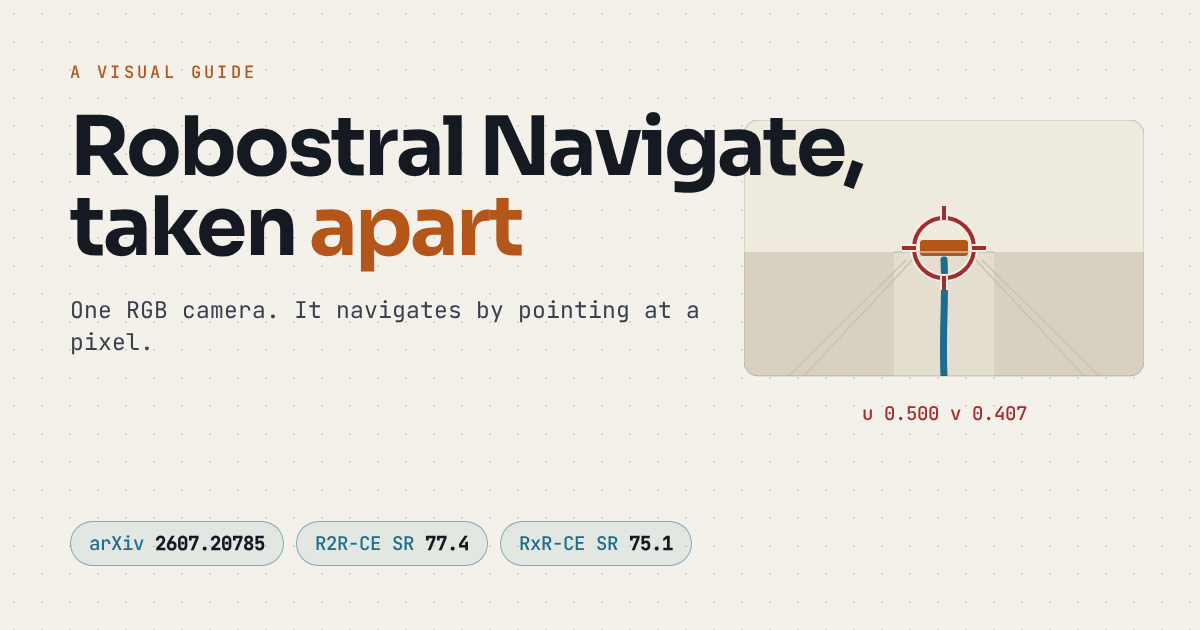
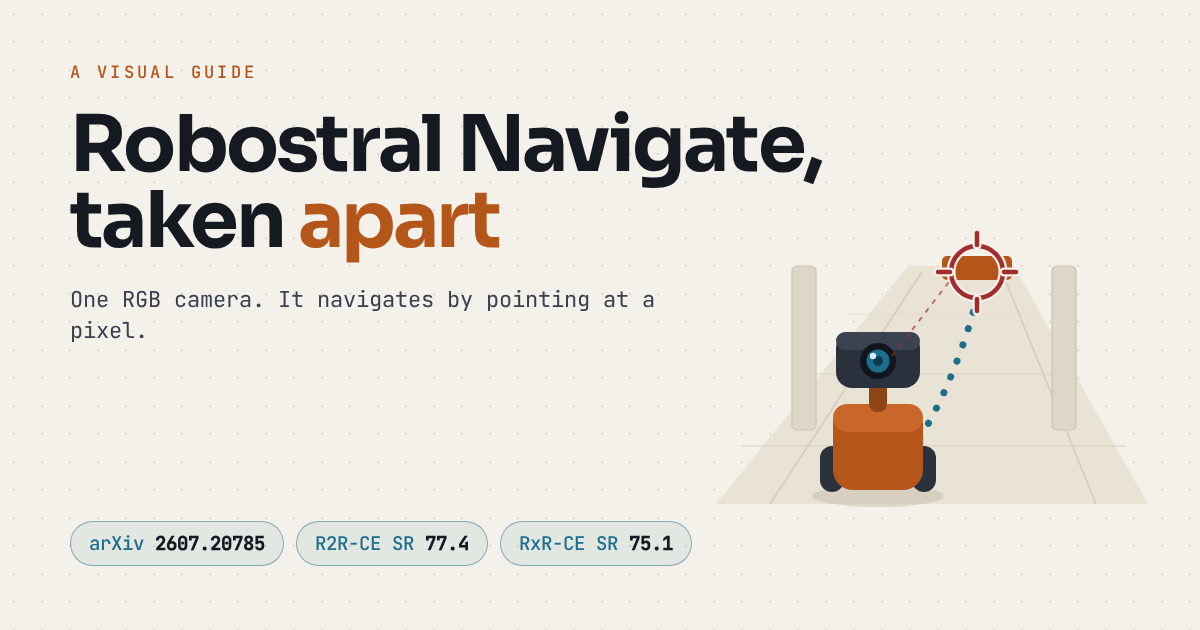
Fix the body-comparison figure, the byline and the social card
The two robot silhouettes were sized with radius times an arbitrary 52,
so a 0.45 m base rendered 962px wide and both bodies broke out of their
panels as bars across the whole figure. They are now drawn to a shared
pixels-per-metre scale against a 1.8 m reference line, with the camera
height and pitch marked, which is the thing the comparison is actually
about. The card next to it no longer claims a wider lens, since the
paper randomises pitch and not field of view.

The social card gets a drawn illustration instead of an abstract
diagram: a robot with one camera, the route it is following, and the
sight line to the pixel it picked.

Changed region(s): [[0.0617, 0.181, 0.74, 0.4222], [0.6167, 0.3317, 0.9558, 0.8143], [0.0617, 0.4524, 0.5858, 0.573]]

diff --git a/robostral/index.html b/robostral/index.html
@@ -268,8 +268,8 @@ h3{
   a map built in advance. Every one of those narrows the set of robots you can run on. Robostral
   Navigate takes a <b>single RGB camera</b> and predicts where to go by <b>pointing at a pixel</b>
   in the frame it is already looking at.</p>
-  <p class="sub" style="margin-top:14px">I worked on this one, and this is my attempt to lay the
-  paper out visually. The 3D figures are real scenes rather than diagrams, so when a figure claims
+  <p class="sub" style="margin-top:14px">I contributed to the original paper, and this is my
+  attempt to lay it out visually. The 3D figures are real scenes rather than diagrams, so when a figure claims
   the image coordinate survives a change of camera, you can move the camera and check.</p>
 
   <div class="metastrip">
@@ -342,8 +342,9 @@ h3{
     <p>The conventional output is a metric displacement: go forward this many metres, turn this many
     degrees. That number is entangled with the body that produced it. It assumes a camera at a
     particular height and pitch, a particular field of view, and a scale calibrated to that machine.</p>
-    <p>Move it to a robot half the height with a wider lens and the geometry underneath the number
-    has changed, even though the instruction and the room have not.</p>
+    <p>Move it to a robot a third the height, with a wider base and a camera tilted further down,
+    and the geometry underneath the number has changed even though the instruction and the room
+    have not.</p>
   </div></div>
 </div>
 
@@ -1845,45 +1846,80 @@ window.SCENES = window.SCENES || {};
 
   /* ---- 03 a metric waypoint belongs to one body ---- */
   window.SCENES.S_METRIC = function (root, api) {
-    var RN = api.RN, f = RN.facts, s = K.board(root, { alt: 'The same command on two different bodies.' });
+    var f = api.RN.facts;
+    var s = K.board(root, { alt: 'The same metric command on two differently shaped robots.' });
     K.head(s, 'A distance in metres belongs to one robot',
-      'same command, two bodies, two different meanings');
+      'the same command, read against two different geometries');
 
     K.label(s, 0, 14, 'the command');
-    K.code(s, 0, 26, 300, [
+    K.code(s, 0, 26, 290, [
       { t: 'forward  Δx = 1.4 m', c: '#9fd0e6' },
       { t: 'lateral  Δy = 0.0 m', c: '#9fd0e6' },
       { t: 'turn     Δθ = 22°', c: '#9fd0e6' }
     ]);
+    K.para(s, 312, 48, 'A displacement in metres silently assumes the machine it was measured ' +
+      'on: how high the camera sits, how far it is tilted, and how wide the base is.', 44,
+      { size: 12.5, color: C.ink2, lh: 19 });
 
+    // two bodies at the ends of the ranges the paper randomises over, drawn to
+    // a shared scale so the comparison is a measurement and not a cartoon
     var BODIES = [
       { n: 'tall, camera level', h: f.height_max, r: f.radius_min, pitch: f.pitch_min, c: C.blue },
-      { n: 'short, camera pitched down', h: f.height_min, r: f.radius_max, pitch: f.pitch_max, c: C.purple }
+      { n: 'short, camera pitched down', h: f.height_min, r: f.radius_max,
+        pitch: f.pitch_max, c: C.purple }
     ];
+    var PW = 310, PX = [0, 330], PY = 152, PH = 250;
+    var GROUND = PY + PH - 42, PPM = 150 / f.height_max;   // pixels per metre
+
+    K.label(s, 0, 140, 'the same command, on two bodies, to scale');
 
     BODIES.forEach(function (b, i) {
-      var x = i * 330, y = 150;
-      K.panel(s, x, y, 310, 216, { stroke: b.c, fill: i ? T.purple : T.blue });
-      K.label(s, x + 18, y + 28, b.n, { color: b.c });
-      // a little elevation drawing of the body, to scale against 1.8 m
-      var gx = x + 42, gy = y + 190, scale = 74 / f.height_max;
-      s.appendChild(K.n('line', { x1: x + 18, y1: gy, x2: x + 290, y2: gy,
-        stroke: C.line, 'stroke-width': 1 }));
-      var hh = b.h * scale;
-      s.appendChild(K.n('rect', { x: gx - b.r * scale * 26, y: gy - hh,
-        width: b.r * scale * 52, height: hh, rx: 3, fill: b.c, opacity: .82 }));
-      s.appendChild(K.n('circle', { cx: gx, cy: gy - hh - 5, r: 4.5, fill: C.ink }));
-      K.mono(s, x + 18, y + 76, b.h.toFixed(1) + ' m tall', { size: 12, color: b.c });
-      K.mono(s, x + 18, y + 94, 'radius ' + b.r.toFixed(2) + ' m', { size: 12, color: b.c });
-      K.mono(s, x + 18, y + 112, 'pitch ' + b.pitch + '°', { size: 12, color: b.c });
-      K.mono(s, x + 108, y + 208, i ? 'clips the doorway frame' : 'clears it', { size: 12.5, color: b.c });
+      var x = PX[i];
+      K.panel(s, x, PY, PW, PH, { stroke: b.c, fill: i ? T.purple : T.blue });
+      K.label(s, x + 18, PY + 26, b.n, { color: b.c });
+
+      // ground line and a 1.8 m reference tick, so both panels read against one scale
+      s.appendChild(K.n('line', { x1: x + 16, y1: GROUND, x2: x + PW - 16, y2: GROUND,
+        stroke: C.line, 'stroke-width': 1.5 }));
+      var refY = GROUND - f.height_max * PPM;
+      s.appendChild(K.n('line', { x1: x + PW - 34, y1: refY, x2: x + PW - 22, y2: refY,
+        stroke: C.ink3, 'stroke-width': 1, 'stroke-dasharray': '3 3' }));
+      K.mono(s, x + PW - 38, refY + 4, f.height_max.toFixed(1) + ' m',
+        { size: 9.5, color: C.ink3, anchor: 'end' });
+
+      var cx = x + 96;
+      var bw = Math.max(9, b.r * 2 * PPM);        // radius is a radius, so double it
+      var bh = b.h * PPM;
+      s.appendChild(K.n('rect', { x: cx - bw / 2, y: GROUND - bh, width: bw, height: bh,
+        rx: 4, fill: b.c, opacity: .26, stroke: b.c }));
+      // the camera, at its randomised fraction of the body height
+      var camY = GROUND - b.h * 0.9 * PPM;
+      s.appendChild(K.n('circle', { cx: cx, cy: camY, r: 5, fill: b.c }));
+      // and where it is looking, which is the part the metres depend on
+      var ang = b.pitch * Math.PI / 180;
+      s.appendChild(K.n('line', { x1: cx + 6, y1: camY,
+        x2: cx + 6 + Math.cos(ang) * 74, y2: camY + Math.sin(ang) * 74,
+        stroke: b.c, 'stroke-width': 1.6, 'stroke-dasharray': '4 3' }));
+      K.mono(s, cx + 14, camY - 10, 'camera', { size: 10, color: b.c });
+
+      var rows = [
+        [b.h.toFixed(1) + ' m', 'body height'],
+        [(b.h * 0.9).toFixed(2) + ' m', 'camera height'],
+        [b.r.toFixed(2) + ' m', 'base radius'],
+        [b.pitch + '°', 'camera pitch']
+      ];
+      rows.forEach(function (r, j) {
+        var ry = PY + 58 + j * 30;
+        K.mono(s, x + 168, ry, r[0], { size: 14, color: b.c, weight: 700 });
+        K.mono(s, x + 168, ry + 14, r[1], { size: 9.5, color: C.ink3 });
+      });
     });
 
-    K.callout(s, 0, 392, 640,
-      'The number did not change. The geometry it was measured against did. That is the ' +
-      'coupling image-space output is there to break.', { cols: 66 });
-    K.foot(s, 'Body ranges are the ones the paper randomises over in section 2.4. The two ' +
-      'silhouettes are the ends of those ranges, not measured platforms.');
+    K.callout(s, 0, PY + PH + 18, 640,
+      'The number did not change. The geometry it was measured against did. Breaking that ' +
+      'coupling is the whole reason the output moves into image space.', { cols: 66 });
+    K.foot(s, 'Both bodies are the ends of the ranges the paper randomises over in section 2.4, ' +
+      'drawn to a common scale. They are not measured platforms.');
   };
 
   /* ---- 04 THE HERO: pointing, derived by projection ---- */

diff --git a/robostral/scenes/s1_problem.js b/robostral/scenes/s1_problem.js
@@ -101,45 +101,80 @@ window.SCENES = window.SCENES || {};
 
   /* ---- 03 a metric waypoint belongs to one body ---- */
   window.SCENES.S_METRIC = function (root, api) {
-    var RN = api.RN, f = RN.facts, s = K.board(root, { alt: 'The same command on two different bodies.' });
+    var f = api.RN.facts;
+    var s = K.board(root, { alt: 'The same metric command on two differently shaped robots.' });
     K.head(s, 'A distance in metres belongs to one robot',
-      'same command, two bodies, two different meanings');
+      'the same command, read against two different geometries');
 
     K.label(s, 0, 14, 'the command');
-    K.code(s, 0, 26, 300, [
+    K.code(s, 0, 26, 290, [
       { t: 'forward  Δx = 1.4 m', c: '#9fd0e6' },
       { t: 'lateral  Δy = 0.0 m', c: '#9fd0e6' },
       { t: 'turn     Δθ = 22°', c: '#9fd0e6' }
     ]);
+    K.para(s, 312, 48, 'A displacement in metres silently assumes the machine it was measured ' +
+      'on: how high the camera sits, how far it is tilted, and how wide the base is.', 44,
+      { size: 12.5, color: C.ink2, lh: 19 });
 
+    // two bodies at the ends of the ranges the paper randomises over, drawn to
+    // a shared scale so the comparison is a measurement and not a cartoon
     var BODIES = [
       { n: 'tall, camera level', h: f.height_max, r: f.radius_min, pitch: f.pitch_min, c: C.blue },
-      { n: 'short, camera pitched down', h: f.height_min, r: f.radius_max, pitch: f.pitch_max, c: C.purple }
+      { n: 'short, camera pitched down', h: f.height_min, r: f.radius_max,
+        pitch: f.pitch_max, c: C.purple }
     ];
+    var PW = 310, PX = [0, 330], PY = 152, PH = 250;
+    var GROUND = PY + PH - 42, PPM = 150 / f.height_max;   // pixels per metre
+
+    K.label(s, 0, 140, 'the same command, on two bodies, to scale');
 
     BODIES.forEach(function (b, i) {
-      var x = i * 330, y = 150;
-      K.panel(s, x, y, 310, 216, { stroke: b.c, fill: i ? T.purple : T.blue });
-      K.label(s, x + 18, y + 28, b.n, { color: b.c });
-      // a little elevation drawing of the body, to scale against 1.8 m
-      var gx = x + 42, gy = y + 190, scale = 74 / f.height_max;
-      s.appendChild(K.n('line', { x1: x + 18, y1: gy, x2: x + 290, y2: gy,
-        stroke: C.line, 'stroke-width': 1 }));
-      var hh = b.h * scale;
-      s.appendChild(K.n('rect', { x: gx - b.r * scale * 26, y: gy - hh,
-        width: b.r * scale * 52, height: hh, rx: 3, fill: b.c, opacity: .82 }));
-      s.appendChild(K.n('circle', { cx: gx, cy: gy - hh - 5, r: 4.5, fill: C.ink }));
-      K.mono(s, x + 18, y + 76, b.h.toFixed(1) + ' m tall', { size: 12, color: b.c });
-      K.mono(s, x + 18, y + 94, 'radius ' + b.r.toFixed(2) + ' m', { size: 12, color: b.c });
-      K.mono(s, x + 18, y + 112, 'pitch ' + b.pitch + '°', { size: 12, color: b.c });
-      K.mono(s, x + 108, y + 208, i ? 'clips the doorway frame' : 'clears it', { size: 12.5, color: b.c });
+      var x = PX[i];
+      K.panel(s, x, PY, PW, PH, { stroke: b.c, fill: i ? T.purple : T.blue });
+      K.label(s, x + 18, PY + 26, b.n, { color: b.c });
+
+      // ground line and a 1.8 m reference tick, so both panels read against one scale
+      s.appendChild(K.n('line', { x1: x + 16, y1: GROUND, x2: x + PW - 16, y2: GROUND,
+        stroke: C.line, 'stroke-width': 1.5 }));
+      var refY = GROUND - f.height_max * PPM;
+      s.appendChild(K.n('line', { x1: x + PW - 34, y1: refY, x2: x + PW - 22, y2: refY,
+        stroke: C.ink3, 'stroke-width': 1, 'stroke-dasharray': '3 3' }));
+      K.mono(s, x + PW - 38, refY + 4, f.height_max.toFixed(1) + ' m',
+        { size: 9.5, color: C.ink3, anchor: 'end' });
+
+      var cx = x + 96;
+      var bw = Math.max(9, b.r * 2 * PPM);        // radius is a radius, so double it
+      var bh = b.h * PPM;
+      s.appendChild(K.n('rect', { x: cx - bw / 2, y: GROUND - bh, width: bw, height: bh,
+        rx: 4, fill: b.c, opacity: .26, stroke: b.c }));
+      // the camera, at its randomised fraction of the body height
+      var camY = GROUND - b.h * 0.9 * PPM;
+      s.appendChild(K.n('circle', { cx: cx, cy: camY, r: 5, fill: b.c }));
+      // and where it is looking, which is the part the metres depend on
+      var ang = b.pitch * Math.PI / 180;
+      s.appendChild(K.n('line', { x1: cx + 6, y1: camY,
+        x2: cx + 6 + Math.cos(ang) * 74, y2: camY + Math.sin(ang) * 74,
+        stroke: b.c, 'stroke-width': 1.6, 'stroke-dasharray': '4 3' }));
+      K.mono(s, cx + 14, camY - 10, 'camera', { size: 10, color: b.c });
+
+      var rows = [
+        [b.h.toFixed(1) + ' m', 'body height'],
+        [(b.h * 0.9).toFixed(2) + ' m', 'camera height'],
+        [b.r.toFixed(2) + ' m', 'base radius'],
+        [b.pitch + '°', 'camera pitch']
+      ];
+      rows.forEach(function (r, j) {
+        var ry = PY + 58 + j * 30;
+        K.mono(s, x + 168, ry, r[0], { size: 14, color: b.c, weight: 700 });
+        K.mono(s, x + 168, ry + 14, r[1], { size: 9.5, color: C.ink3 });
+      });
     });
 
-    K.callout(s, 0, 392, 640,
-      'The number did not change. The geometry it was measured against did. That is the ' +
-      'coupling image-space output is there to break.', { cols: 66 });
-    K.foot(s, 'Body ranges are the ones the paper randomises over in section 2.4. The two ' +
-      'silhouettes are the ends of those ranges, not measured platforms.');
+    K.callout(s, 0, PY + PH + 18, 640,
+      'The number did not change. The geometry it was measured against did. Breaking that ' +
+      'coupling is the whole reason the output moves into image space.', { cols: 66 });
+    K.foot(s, 'Both bodies are the ends of the ranges the paper randomises over in section 2.4, ' +
+      'drawn to a common scale. They are not measured platforms.');
   };
 
   /* ---- 04 THE HERO: pointing, derived by projection ---- */

diff --git a/robostral/beats.html b/robostral/beats.html
@@ -38,8 +38,9 @@
     <p>The conventional output is a metric displacement: go forward this many metres, turn this many
     degrees. That number is entangled with the body that produced it. It assumes a camera at a
     particular height and pitch, a particular field of view, and a scale calibrated to that machine.</p>
-    <p>Move it to a robot half the height with a wider lens and the geometry underneath the number
-    has changed, even though the instruction and the room have not.</p>
+    <p>Move it to a robot a third the height, with a wider base and a camera tilted further down,
+    and the geometry underneath the number has changed even though the instruction and the room
+    have not.</p>
   </div></div>
 </div>
 

diff --git a/robostral/make_og.py b/robostral/make_og.py
@@ -27,50 +27,72 @@ CARD = f"""<!DOCTYPE html><html><head><meta charset="utf-8">
     display:flex; flex-direction:column; justify-content:space-between; }}
   .eyebrow {{ font:500 17px/1 'JetBrains Mono',monospace; letter-spacing:.20em;
     text-transform:uppercase; color:#b4551a; }}
-  h1 {{ font-size:82px; line-height:.98; letter-spacing:-.035em; color:#141922;
-    font-weight:700; margin-top:26px; max-width:760px; }}
+  h1 {{ font-size:78px; line-height:.98; letter-spacing:-.035em; color:#141922;
+    font-weight:700; margin-top:26px; max-width:690px; }}
   h1 em {{ font-style:normal; color:#b4551a; }}
-  p {{ font:400 23px/1.42 'JetBrains Mono',monospace; color:#39404f;
-    max-width:680px; margin-top:26px; }}
+  p {{ font:400 22px/1.42 'JetBrains Mono',monospace; color:#39404f;
+    max-width:620px; margin-top:24px; }}
   .row {{ display:flex; gap:12px; align-items:center; }}
   .chip {{ font:500 19px/1 'JetBrains Mono',monospace; color:#1c6e8c;
     border:1.5px solid rgba(28,110,140,.5); background:rgba(28,110,140,.08);
     padding:12px 18px; border-radius:999px; }}
   .chip b {{ color:#141922; font-weight:700; }}
-  .art {{ position:absolute; right:56px; top:120px; }}
+  .art {{ position:absolute; right:34px; top:116px; }}
 </style></head><body>
 <div class="grid"></div>
-<svg class="art" width="400" height="330" viewBox="0 0 400 330">
-  <defs><clipPath id="cv"><rect x="0" y="0" width="400" height="256" rx="14"/></clipPath></defs>
-  <g clip-path="url(#cv)">
-    <rect x="0" y="0" width="400" height="256" fill="#ece7dc"/>
-    <!-- a corridor in one-point perspective, vanishing at the waypoint -->
-    <path d="M0 256 L150 132 L250 132 L400 256 Z" fill="#e4ded1"/>
-    <path d="M0 0 L150 132 L150 256 L0 256 Z" fill="#d8d1c1"/>
-    <path d="M400 0 L250 132 L250 256 L400 256 Z" fill="#d8d1c1"/>
-    <rect x="0" y="0" width="400" height="132" fill="#efeade"/>
-    <g stroke="#c9c1b2" stroke-width="1.4" fill="none">
-      <path d="M0 300 L162 140"/><path d="M400 300 L238 140"/>
-      <path d="M60 256 L172 136"/><path d="M340 256 L228 136"/>
-    </g>
-    <rect x="176" y="120" width="48" height="16" rx="3" fill="#b4551a"/>
-    <path d="M150 132 L250 132" stroke="#c9c1b2" stroke-width="1.4"/>
-    <path d="M200 256 C 198 210, 202 178, 200 140" stroke="#1c6e8c"
-      stroke-width="7" fill="none" stroke-linecap="round"/>
+<svg class="art" width="470" height="404" viewBox="0 0 470 404">
+  <!-- corridor floor, receding to a vanishing point up and right -->
+  <path d="M20 388 L212 150 L318 150 L452 388 Z" fill="#e9e3d6"/>
+  <g stroke="#d5cdbc" stroke-width="1.6" fill="none">
+    <path d="M74 388 L226 156"/><path d="M400 388 L306 156"/>
+    <path d="M46 330 L430 330" opacity=".65"/>
+    <path d="M104 258 L380 258" opacity=".45"/>
+    <path d="M152 198 L340 198" opacity=".3"/>
   </g>
-  <rect x="0" y="0" width="400" height="256" rx="14" fill="none" stroke="rgba(31,37,48,.22)"/>
+  <!-- colonnade -->
+  <g fill="#ded6c6" stroke="#cec5b3" stroke-width="1.2">
+    <rect x="96" y="150" width="24" height="164" rx="5"/>
+    <rect x="356" y="150" width="24" height="164" rx="5"/>
+  </g>
+  <!-- the landmark it is heading for, at the end of the corridor -->
+  <rect x="246" y="140" width="70" height="24" rx="5" fill="#b4551a"/>
+
+  <!-- the route, dotted along the floor, clear of the robot -->
+  <path d="M214 336 C 244 296, 268 232, 280 186" stroke="#1c6e8c" stroke-width="7"
+    fill="none" stroke-linecap="round" stroke-dasharray="0.1 17"/>
+
+  <!-- the waypoint the model points at -->
   <g>
-    <circle cx="200" cy="128" r="30" fill="none" stroke="#f4f1ea" stroke-width="8"/>
-    <circle cx="200" cy="128" r="30" fill="none" stroke="#a32d2d" stroke-width="4"/>
-    <g stroke="#f4f1ea" stroke-width="8">
-      <path d="M158 128 h14"/><path d="M228 128 h14"/>
-      <path d="M200 86 v14"/><path d="M200 156 v14"/></g>
-    <g stroke="#a32d2d" stroke-width="4">
-      <path d="M158 128 h14"/><path d="M228 128 h14"/>
-      <path d="M200 86 v14"/><path d="M200 156 v14"/></g>
+    <circle cx="281" cy="156" r="26" fill="none" stroke="#f4f1ea" stroke-width="9"/>
+    <circle cx="281" cy="156" r="26" fill="none" stroke="#a32d2d" stroke-width="4.5"/>
+    <g stroke="#f4f1ea" stroke-width="9" stroke-linecap="round">
+      <path d="M242 156 h12"/><path d="M308 156 h12"/>
+      <path d="M281 117 v12"/><path d="M281 183 v12"/></g>
+    <g stroke="#a32d2d" stroke-width="4.5" stroke-linecap="round">
+      <path d="M242 156 h12"/><path d="M308 156 h12"/>
+      <path d="M281 117 v12"/><path d="M281 183 v12"/></g>
   </g>
-  <text x="200" y="300" text-anchor="middle" font-family="'JetBrains Mono',monospace"
-    font-size="19" fill="#a32d2d" font-weight="500">u 0.500   v 0.407</text>
+
+  <!-- the robot, from behind and slightly left, so nothing overlaps -->
+  <g transform="translate(-40,0)">
+    <ellipse cx="222" cy="380" rx="66" ry="11" fill="#c6bda9" opacity=".5"/>
+    <rect x="164" y="330" width="24" height="46" rx="12" fill="#2a303c"/>
+    <rect x="256" y="330" width="24" height="46" rx="12" fill="#2a303c"/>
+    <rect x="177" y="288" width="90" height="86" rx="20" fill="#b4551a"/>
+    <rect x="177" y="288" width="90" height="28" rx="14" fill="#c9662a"/>
+    <rect x="213" y="262" width="18" height="34" rx="8" fill="#8f4415"/>
+    <rect x="180" y="216" width="84" height="56" rx="16" fill="#2a303c"/>
+    <rect x="180" y="216" width="84" height="18" rx="9" fill="#3b4250"/>
+    <!-- one RGB camera, which is the entire argument of the paper -->
+    <circle cx="222" cy="245" r="18" fill="#11151c"/>
+    <circle cx="222" cy="245" r="11.5" fill="#1c6e8c"/>
+    <circle cx="222" cy="245" r="5" fill="#0d3a4b"/>
+    <circle cx="217" cy="240" r="3.2" fill="#eaf4f8" opacity=".92"/>
+  </g>
+
+  <!-- the sight line from that camera to the pixel it chose -->
+  <path d="M196 240 L256 162" stroke="#a32d2d" stroke-width="2"
+    stroke-dasharray="5 6" fill="none" opacity=".65"/>
 </svg>
 <div class="wrap">
   <div>

diff --git a/robostral/build.py b/robostral/build.py
@@ -56,8 +56,8 @@ HERO = """
   a map built in advance. Every one of those narrows the set of robots you can run on. Robostral
   Navigate takes a <b>single RGB camera</b> and predicts where to go by <b>pointing at a pixel</b>
   in the frame it is already looking at.</p>
-  <p class="sub" style="margin-top:14px">I worked on this one, and this is my attempt to lay the
-  paper out visually. The 3D figures are real scenes rather than diagrams, so when a figure claims
+  <p class="sub" style="margin-top:14px">I contributed to the original paper, and this is my
+  attempt to lay it out visually. The 3D figures are real scenes rather than diagrams, so when a figure claims
   the image coordinate survives a change of camera, you can move the camera and check.</p>
 
   <div class="metastrip">
